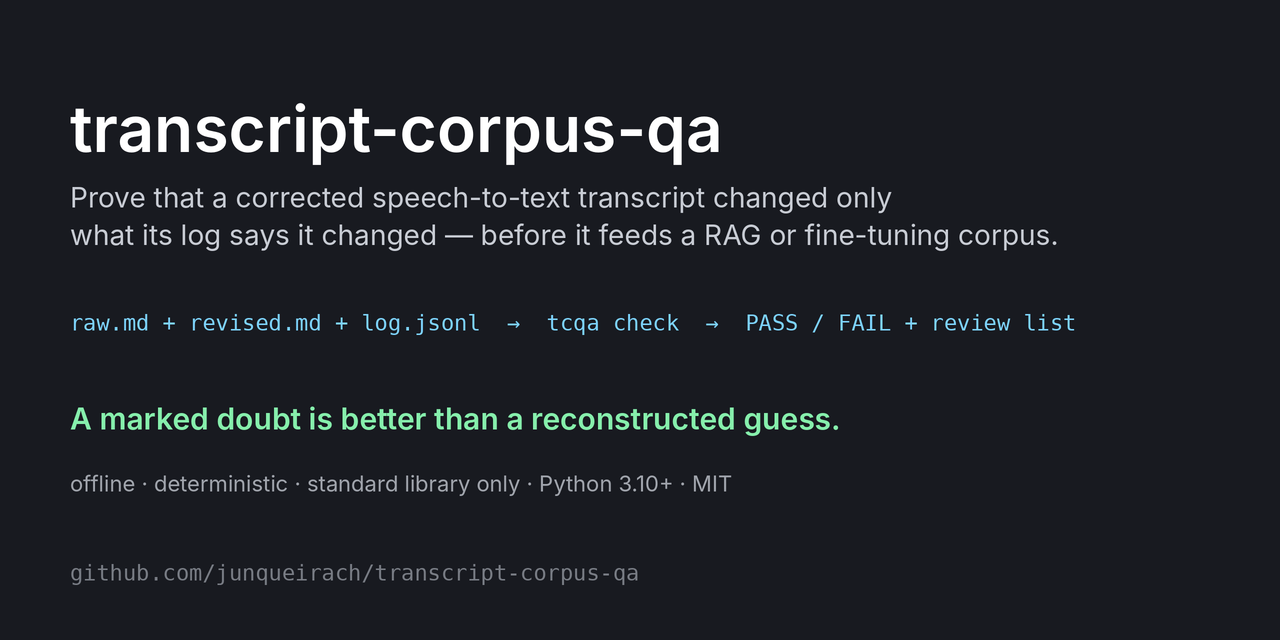
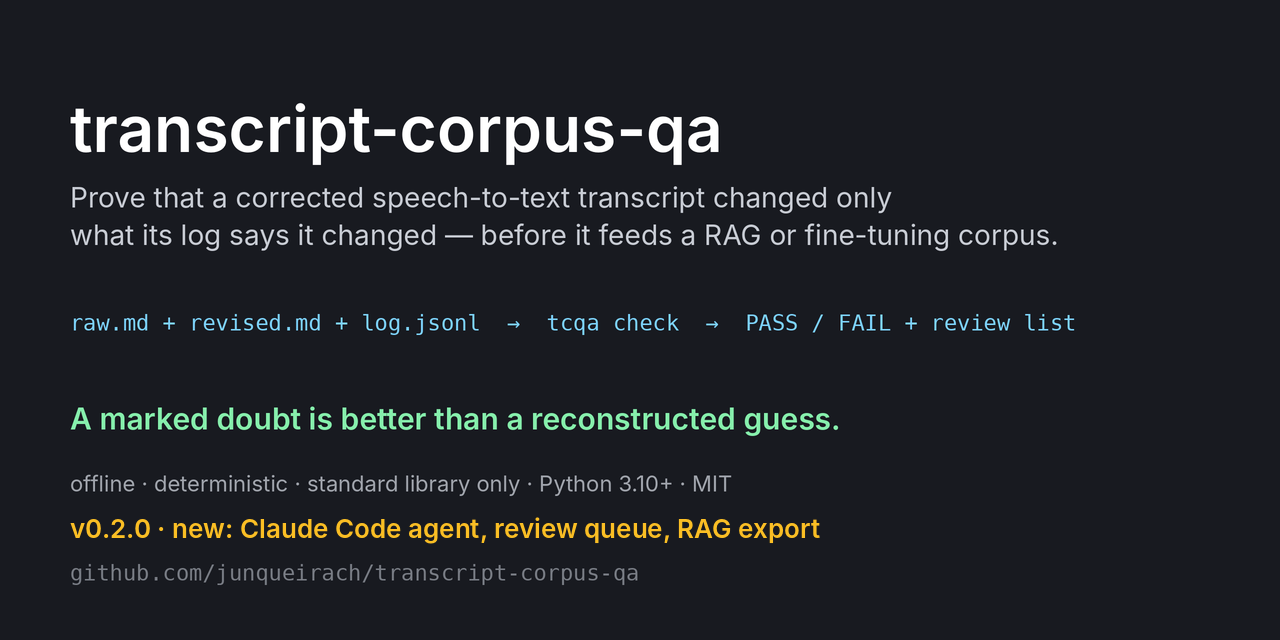
Release 0.2.0: version, changelog, README fixes, invented names in agent examples, social preview

Changed region(s): [[0.0625, 0.8125, 0.6562, 0.8438]]

diff --git a/tests/test_tools_v2.py b/tests/test_tools_v2.py
@@ -138,16 +138,16 @@ def test_agent_install_renders_placeholders(tmp_path):
 
 def test_draft_log_hashes_raw_bytes_and_does_not_duplicate_widened_spans(tmp_path):
     from tcqa.checker import sha256_bytes
-    raw = "Título: t\r\nQualidade: Bruta\r\n\r\ne o joão val elan falou\r\n".encode("utf-8")   # CRLF on disk
+    raw = "Título: t\r\nQualidade: Bruta\r\n\r\ne o ruy sol andradi falou\r\n".encode("utf-8")   # CRLF on disk
     (tmp_path / "raw.md").write_bytes(raw)
-    (tmp_path / "rev.md").write_text("---\ntitulo: t\nidioma: pt\n---\n\nE o Jan Val Ellam falou.\n", encoding="utf-8", newline="\n")
-    (tmp_path / "lex.json").write_text(json.dumps({"termos": [{"termo": "Jan Val Ellam", "erros_previstos": ["joão val elan"]}]}), encoding="utf-8")
+    (tmp_path / "rev.md").write_text("---\ntitulo: t\nidioma: pt\n---\n\nE o Rui Sol Andrade falou.\n", encoding="utf-8", newline="\n")
+    (tmp_path / "lex.json").write_text(json.dumps({"termos": [{"termo": "Rui Sol Andrade", "erros_previstos": ["ruy sol andradi"]}]}), encoding="utf-8")
     out = tmp_path / "log.jsonl"
     assert main(["draft-log", str(tmp_path / "raw.md"), str(tmp_path / "rev.md"), "--lexicon", str(tmp_path / "lex.json"), "--out", str(out)]) == 0
     lines = [json.loads(x) for x in out.read_text(encoding="utf-8").splitlines()]
     assert lines[0]["raw_sha256"] == sha256_bytes(raw)
     changes = [l for l in lines if l.get("type") == "change"]
-    assert len(changes) == 1 and changes[0]["raw"] == "joão val elan" and changes[0]["tier"] == "T1"
+    assert len(changes) == 1 and changes[0]["raw"] == "ruy sol andradi" and changes[0]["tier"] == "T1"
 
 
 def test_classify_log_sets_termos_corrigidos_and_syncs_header(tmp_path):

diff --git a/src/tcqa/lexicon_tools.py b/src/tcqa/lexicon_tools.py
@@ -249,7 +249,7 @@ def _core(lex, revised: str, raw: str):
                         candidates.append((n, lex.canonical[tk], core))
     if not candidates:
         return None
-    _, term, core = max(candidates, key=lambda c: c[0])   # the longest term wins ('Jan Val Ellam' over 'Val Ellam')
+    _, term, core = max(candidates, key=lambda c: c[0])   # the longest term wins ('Rui Sol Andrade' over 'Sol Andrade')
     return term, core
 
 

diff --git a/src/tcqa/__init__.py b/src/tcqa/__init__.py
@@ -1,2 +1,2 @@
 """tcqa — fidelity checker for revised speech-to-text transcripts."""
-__version__ = "0.1.0"
+__version__ = "0.2.0"

diff --git a/agent/skills/tcqa/SKILL.md b/agent/skills/tcqa/SKILL.md
@@ -89,8 +89,8 @@ Cached in `<tcqa root>\_tcqa\canais\<folder name>.json`; reuse it if it exists a
 
 1. **Inventory and raw detection (A3)**: for each `.md`: header fields (`Título`, `Autor`, `Data`, `Fonte`, `Qualidade`). Revise only files whose `Qualidade` is in `raw_quality_values`; skip `Bruta polida por IA`, `[Polished…]`, `Revisão N`, files with YAML front matter (already revised), and duplicates (same `Fonte` URL or >95 % identical text → keep the raw one). Files with no header → ask once. Record every skipped file with its reason.
 2. **Lexicon hits (B1)**: `tcqa lexicon hits "<raw>" --lexicon <lex> --speakers <spk> --out "<audit dir>\<name>.hits.json"` per file.
-3. **Speaker pass (E1/E3)** — the most important prep step. For every file gather the clues: folder name → channel; file name → video title; header `Autor:`; and the **text** (read the opening ~800 words and the closing ~400, plus grep for greetings/address/thanks/"eu sou"/"meu livro"/the registry's name forms): host greeting and introduction, self-identification, the guest spelling their name, names used in direct address, thanks, authorship clues ("no meu livro…" + lexicon OBRA entries), biography clues (civil name in the registry), third-person mentions that rule someone **out**, sponsor reads and jingles (identify the host). Decode garbled names with the registry/lexicon ("Fredo narras" = Alfredo Nahas).
-   Decide per file: **host label** (one label for the whole channel; the stage name or nickname the host uses when the civil name is unknown, e.g. `Guru do Himalaia`), **guest/main-speaker labels** (a real name when **≥2 independent sources agree** and none contradicts — mandatory then), `entrevistador`, `entrevistados`, `mencionados`, `autor_principal` (= the registry's corpus main author, always the same person), **`autor_principal_participa`** (does the corpus's main author speak? — corpus control), `evidencia_falantes` (each clue with ¶ or source), and whether names must be proposed via `falante_novo` (not in the registry).
+3. **Speaker pass (E1/E3)** — the most important prep step. For every file gather the clues: folder name → channel; file name → video title; header `Autor:`; and the **text** (read the opening ~800 words and the closing ~400, plus grep for greetings/address/thanks/"eu sou"/"meu livro"/the registry's name forms): host greeting and introduction, self-identification, the guest spelling their name, names used in direct address, thanks, authorship clues ("no meu livro…" + lexicon OBRA entries), biography clues (civil name in the registry), third-person mentions that rule someone **out**, sponsor reads and jingles (identify the host). Decode garbled names with the registry/lexicon ("Roza tavaris" = Rosa Tavares).
+   Decide per file: **host label** (one label for the whole channel; the stage name or nickname the host uses when the civil name is unknown, e.g. `Mestre da Serra`), **guest/main-speaker labels** (a real name when **≥2 independent sources agree** and none contradicts — mandatory then), `entrevistador`, `entrevistados`, `mencionados`, `autor_principal` (= the registry's corpus main author, always the same person), **`autor_principal_participa`** (does the corpus's main author speak? — corpus control), `evidencia_falantes` (each clue with ¶ or source), and whether names must be proposed via `falante_novo` (not in the registry).
 4. **One approval** — show a table (file · host · guest(s) · main author speaks? · evidence · uncertain points) and ask the user to approve or correct (AskUserQuestion; free-text corrections welcome). Then save the prep file. New names approved here are added to the speakers registry under the channel (backup first) so the checker accepts them without warnings next time.
 5. **Shared decisions (F3)**: load `decisions` (`decisoes.jsonl`: approved raw→result decisions with tier and source) and `approved_entities`; pass both to the agents.
 

diff --git a/agent/agents/tcqa-reviser.md b/agent/agents/tcqa-reviser.md
@@ -53,12 +53,12 @@ Inside a marker the original words are copied **exactly**. Markers never nest, n
 ## Speakers — name them when sure (mandatory)
 
 Use the labels from `prep`. They were decided from: folder (channel), file name (video), header `Autor:`, and the text (greetings, introductions, self-identification, spelled names, direct address, thanks, "no meu livro…", biography clues, third-person mentions that rule someone out), decoding garbled names via registry/lexicon.
-- **Sure** (≥2 independent sources agree, none contradicts) → the real name is **mandatory**: in the turn labels `**[Alfredo Nahas]**`, in `falantes`, `entrevistados`/`entrevistador`. A generic label when the identity is clear is a mistake.
+- **Sure** (≥2 independent sources agree, none contradicts) → the real name is **mandatory**: in the turn labels `**[Rosa Tavares]**`, in `falantes`, `entrevistados`/`entrevistador`. A generic label when the identity is clear is a mistake.
 - Name not in the registry → still use it; on the change entry of its first labelled turn add `"categoria": "falante"` and `"falante_novo": {"nome": "<Name>", "citacao": "<¶n quote(s)>"}` (raw `""`, revised the label, tier T2, basis `context: <evidence>`). `tcqa check` then gives warning C10 (expected).
-- Host known only by a stage name or nickname → use it as the label (e.g. `Guru do Himalaia`), via `falante_novo` if unregistered.
+- Host known only by a stage name or nickname → use it as the label (e.g. `Mestre da Serra`), via `falante_novo` if unregistered.
 - **Not sure** → generic label from the registry; report the candidate and why.
 - **Uncertain turn boundaries** (K4): add a review note after the paragraph — `> **[nota de revisão]** troca de falante incerta: …` — and list it in your result.
-- Front matter, always: `falantes` (exactly the labels you used), `entrevistador`, `entrevistados`, `mencionados` (people talked about, not speaking), `autor_principal` = **the corpus's main author** from the registry (`autor_principal.nome_canonico`, e.g. Jan Val Ellam) — not this file's guest —, `autor_principal_participa` (true/false: does that person speak here? — corpus control), `evidencia_falantes` (one item per clue, with ¶).
+- Front matter, always: `falantes` (exactly the labels you used), `entrevistador`, `entrevistados`, `mencionados` (people talked about, not speaking), `autor_principal` = **the corpus's main author** from the registry (`autor_principal.nome_canonico`, e.g. Rui Sol Andrade) — not this file's guest —, `autor_principal_participa` (true/false: does that person speak here? — corpus control), `evidencia_falantes` (one item per clue, with ¶).
 
 ## Procedure
 

diff --git a/CHANGELOG.md b/CHANGELOG.md
@@ -1,6 +1,8 @@
 # Changelog
 
-## Unreleased
+## v0.2.0 — 2026-10-17
+
+The agent pipeline ("tcqa v2"): new commands for a whole-corpus workflow and a Claude Code agent that uses them. Tested on a real corpus channel (3 files, all passing the check and verified).
 
 - `tcqa check` (C11): a T1 entry with `basis: "lexicon:<term>"` is now verified against the lexicon. The term must exist, the revised span must be the term or one of its variants, and the raw span must be one of its listed errors or variants (context words around the term are allowed). Before, any change could be passed off as T1 by citing a lexicon term, which was a false pass. Without `--lexicon` the entry gets a warning ("not verified"). New fixture `bad_t1_not_in_lexicon`.
 - Lexicon loader: `erros_observados` / `observed_errors` are accepted alongside `erros_previstos`.
@@ -13,8 +15,8 @@
 - `tcqa classify --write` normalises `idioma` to the base code and fills `pct_nao_conteudo`.
 - A log entry whose `basis` starts with `TODO` (an unfinished draft stub) fails the check (C0).
 - Reports, summaries and indexes are written with LF line endings on every platform; console output no longer crashes on a Windows code page.
-- New commands: `tcqa lexicon hits|validate|stats|merge|learn`, `tcqa draft-log`, `tcqa review build|apply`, `tcqa export` (RAG JSONL chunks), `tcqa metrics`, `tcqa index summary`.
-- `agent/`: the tcqa agent for Claude Code (launcher `/tcqa`, `tcqa-reviser`, `tcqa-verifier`) with an installer.
+- New commands: `tcqa lexicon hits|validate|stats|merge|learn`, `tcqa draft-log`, `tcqa review build|decide|apply` (review queue in batches; a whole batch can be decided at once), `tcqa export` (RAG JSONL chunks), `tcqa metrics`, `tcqa index summary`.
+- `agent/`: the tcqa agent for Claude Code (launcher `/tcqa`, `tcqa-reviser`, `tcqa-verifier`) with an installer. Examples in the agent files use invented names.
 - METHOD.md: naming speakers from converging evidence, corpus control, non-content segments, personal data, oral forms, book citations, verifier and review queue, draft-log workflow.
 
 ## v0.1.0 — 2026-10

diff --git a/README.md b/README.md
@@ -146,8 +146,6 @@ text, and a translation with the wrong paragraph count. Seventy-five
 random-mutation tests insert, delete or swap one content word in a passing
 revision and require the checker to fail every time.
 
-## Roadmap
-
 ## The tcqa agent (Claude Code)
 
 `agent/` holds a Claude Code agent that runs the whole method over a corpus:
@@ -158,6 +156,10 @@ output root and file naming once, checks the lexicon first, prepares each channe
 lexicon from the results, builds one grouped review queue, and ends every run with
 a summary that starts with what needs your attention. Raw files are never edited.
 Install: `python agent/install.py` (copies the files to `~/.claude/`).
+
+The agent runs inside Claude Code and uses Claude models to revise and verify. The
+`tcqa` commands it calls stay offline and deterministic: the agent judges, the checker
+proves. The examples in `agent/` use invented names.
 
 ## Roadmap
 
